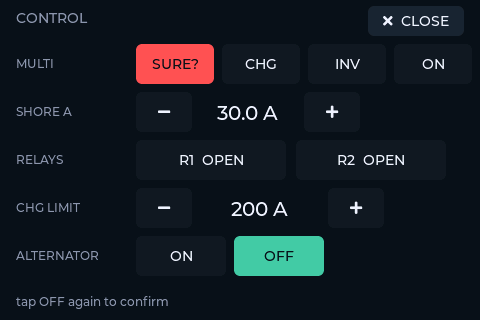
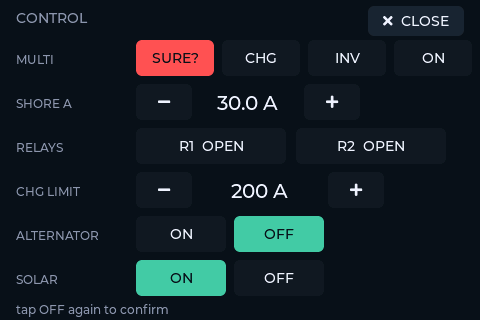
CONTROL: SmartSolar MPPT on/off row (VE.Can, unit via static mapping)
- SOLAR ON/OFF on the control page (solarcharger /Mode, reg 774); page
  compresses to six rows at a 44 px pitch
- GX_SOLAR_UNIT in config.h (0 hides the row); unit 1 on this system —
  VE.Can devices hold instances >247 and are only reachable through
  dbus_modbustcp's static unit map, so the sweep is the way to find them
- Serial 'V' sweep extended: probes solarcharger /Mode across units 1-247
  alongside the vebus scan
- Telemetry gains sm=; read-back verified live (sm=1, row highlights ON);
  ext-control override caveat documented — read-back shows whether a
  write stuck
- Control screenshots regenerated for the six-row layout

diff --git a/ui_control.cpp b/ui_control.cpp
@@ -19,6 +19,7 @@ lv_obj_t* s_shoreVal = nullptr;
 lv_obj_t* s_relayBtn[2] = {nullptr};
 lv_obj_t* s_dvccVal = nullptr;
 lv_obj_t* s_altBtn[2] = {nullptr};       // ON / OFF
+lv_obj_t* s_solarBtn[2] = {nullptr};     // ON / OFF
 lv_obj_t* s_altNa = nullptr;
 lv_obj_t* s_hint = nullptr;
 lv_timer_t* s_offTimer = nullptr;        // disarms the OFF confirm
@@ -109,6 +110,12 @@ void dvccCb(lv_event_t* e) {
   sendCmd(100, 2705, (uint16_t)(int16_t)a);
 }
 
+void solarCb(lv_event_t* e) {
+  if (GX_SOLAR_UNIT == 0 || !s_last.solarModeOk) return;
+  const int on = (int)(uintptr_t)lv_event_get_user_data(e);
+  sendCmd(GX_SOLAR_UNIT, 774, on ? 1 : 4);
+}
+
 void altCb(lv_event_t* e) {
   if (!s_last.altModeOk) return;
   const int on = (int)(uintptr_t)lv_event_get_user_data(e);
@@ -162,40 +169,45 @@ void uiCtlBuild() {
   lv_obj_t* close = mkChip(368, 6, 96, 30, LV_SYMBOL_CLOSE "  CLOSE", closeCb, 0);
   lv_obj_set_style_bg_color(close, lv_color_hex(kRing), 0);
 
-  mkRowLabel(56, "MULTI");
+  // Six rows at a 44 px pitch, 36 px chips (compressed when SOLAR joined).
+  mkRowLabel(52, "MULTI");
   for (int i = 0; i < 4; i++)
-    s_mpBtn[i] = mkChip(136 + i * 86, 44, 78, 40, kMpLabels[i], mpCb, i);
+    s_mpBtn[i] = mkChip(136 + i * 86, 40, 78, 36, kMpLabels[i], mpCb, i);
 
-  mkRowLabel(104, "SHORE A");
-  mkChip(136, 92, 56, 40, LV_SYMBOL_MINUS, shoreCb, -1);
-  s_shoreVal = mkValLabel(200, 102, 96);
-  mkChip(304, 92, 56, 40, LV_SYMBOL_PLUS, shoreCb, +1);
+  mkRowLabel(96, "SHORE A");
+  mkChip(136, 84, 56, 36, LV_SYMBOL_MINUS, shoreCb, -1);
+  s_shoreVal = mkValLabel(200, 92, 96);
+  mkChip(304, 84, 56, 36, LV_SYMBOL_PLUS, shoreCb, +1);
 
-  mkRowLabel(152, "RELAYS");
-  s_relayBtn[0] = mkChip(136, 140, 150, 40, "R1  --", relayCb, 0);
-  s_relayBtn[1] = mkChip(296, 140, 150, 40, "R2  --", relayCb, 1);
+  mkRowLabel(140, "RELAYS");
+  s_relayBtn[0] = mkChip(136, 128, 150, 36, "R1  --", relayCb, 0);
+  s_relayBtn[1] = mkChip(296, 128, 150, 36, "R2  --", relayCb, 1);
 
-  mkRowLabel(200, "CHG LIMIT");
-  mkChip(136, 188, 56, 40, LV_SYMBOL_MINUS, dvccCb, -1);
-  s_dvccVal = mkValLabel(200, 198, 120);
-  mkChip(328, 188, 56, 40, LV_SYMBOL_PLUS, dvccCb, +1);
+  mkRowLabel(184, "CHG LIMIT");
+  mkChip(136, 172, 56, 36, LV_SYMBOL_MINUS, dvccCb, -1);
+  s_dvccVal = mkValLabel(200, 180, 120);
+  mkChip(328, 172, 56, 36, LV_SYMBOL_PLUS, dvccCb, +1);
 
-  mkRowLabel(248, "ALTERNATOR");
-  s_altBtn[0] = mkChip(136, 236, 90, 40, "ON", altCb, 1);
-  s_altBtn[1] = mkChip(234, 236, 90, 40, "OFF", altCb, 0);
+  mkRowLabel(228, "ALTERNATOR");
+  s_altBtn[0] = mkChip(136, 216, 90, 36, "ON", altCb, 1);
+  s_altBtn[1] = mkChip(234, 216, 90, 36, "OFF", altCb, 0);
   s_altNa = lv_label_create(s_scr);
   lv_obj_set_style_text_font(s_altNa, &lv_font_montserrat_12, 0);
   lv_obj_set_style_text_color(s_altNa, lv_color_hex(kMuted), 0);
   lv_label_set_text(s_altNa, "needs newer\nGX firmware");
   lv_obj_set_width(s_altNa, 126);
-  lv_obj_set_pos(s_altNa, 338, 242);
+  lv_obj_set_pos(s_altNa, 338, 220);
   lv_obj_add_flag(s_altNa, LV_OBJ_FLAG_HIDDEN);
+
+  mkRowLabel(272, "SOLAR");
+  s_solarBtn[0] = mkChip(136, 260, 90, 36, "ON", solarCb, 1);
+  s_solarBtn[1] = mkChip(234, 260, 90, 36, "OFF", solarCb, 0);
 
   s_hint = lv_label_create(s_scr);
   lv_obj_set_style_text_font(s_hint, &lv_font_montserrat_12, 0);
   lv_obj_set_style_text_color(s_hint, lv_color_hex(kMuted), 0);
   lv_label_set_text(s_hint, "states show GX read-back   OFF asks twice");
-  lv_obj_set_pos(s_hint, 16, 294);
+  lv_obj_set_pos(s_hint, 16, 302);
 
   s_offTimer = lv_timer_create(offTimerCb, 3000, nullptr);
   lv_timer_pause(s_offTimer);
@@ -252,6 +264,14 @@ void uiCtlUpdate(const GxData& d) {
     }
   } else {
     lv_label_set_text(s_dvccVal, "--");
+  }
+
+  if (d.solarModeOk) {
+    styleChip(s_solarBtn[0], d.solarMode == 1, true);
+    styleChip(s_solarBtn[1], d.solarMode == 4, true);
+  } else {
+    styleChip(s_solarBtn[0], false, false);
+    styleChip(s_solarBtn[1], false, false);
   }
 
   if (d.altModeOk) {

diff --git a/gx_poller.cpp b/gx_poller.cpp
@@ -180,6 +180,16 @@ bool pollOnce(GxData& out) {
   out.dvccOk = (r == kRegOk);
   if (out.dvccOk) out.dvccLimA = s16(cv[0]);
 
+  // SmartSolar /Mode — a unit of 0 means "not configured" (compile-time
+  // constant, the branch folds away). An ext-control MPPT may accept the
+  // read but bounce writes; read-back truth shows that on the page.
+  if (GX_SOLAR_UNIT != 0) {
+    r = sockOk ? mbRead(GX_SOLAR_UNIT, 774, 1, cv) : kRegFault;
+    if (r == kRegFault) sockOk = false;
+    out.solarModeOk = (r == kRegOk);
+    if (out.solarModeOk) out.solarMode = cv[0];
+  }
+
   // Orion /Mode (4119) only exists on newer GX firmware — one clean
   // exception per connection marks it unsupported until reconnect.
   if (s_altModeSupported && sockOk) {
@@ -232,17 +242,28 @@ bool pollOnce(GxData& out) {
 }
 
 void runSweep() {
-  Serial.println("[sweep] units 200-247, vebus /Mode (reg 33)...");
+  Serial.println("[sweep] units 1-247: solar /Mode (774); 200-247 also: vebus /Mode (33)...");
   uint16_t v[1];
-  for (int u = 200; u <= 247; u++) {
-    const RegResult r = mbRead((uint8_t)u, 33, 1, v);
-    if (r == kRegOk && v[0] >= 1 && v[0] <= 4)
-      Serial.printf("[sweep] unit %d: /Mode=%u  <-- vebus candidate\n", u, v[0]);
+  for (int u = 1; u <= 247; u++) {
+    RegResult r = mbRead((uint8_t)u, 774, 1, v);
+    if (r == kRegOk && (v[0] == 1 || v[0] == 4))
+      Serial.printf("[sweep] unit %d: solar /Mode=%u  <-- solarcharger candidate\n", u, v[0]);
     else if (r == kRegFault) {
       Serial.println("[sweep] aborted: socket fault");
       mbStop();
       s_nextAttemptMs = millis();
       return;
+    }
+    if (u >= 200) {
+      r = mbRead((uint8_t)u, 33, 1, v);
+      if (r == kRegOk && v[0] >= 1 && v[0] <= 4)
+        Serial.printf("[sweep] unit %d: /Mode=%u  <-- vebus candidate\n", u, v[0]);
+      else if (r == kRegFault) {
+        Serial.println("[sweep] aborted: socket fault");
+        mbStop();
+        s_nextAttemptMs = millis();
+        return;
+      }
     }
   }
   Serial.println("[sweep] done");

diff --git a/config.h b/config.h
@@ -23,6 +23,15 @@
 #define GX_ALT_UNIT 239
 #endif
 
+// SmartSolar MPPT (com.victronenergy.solarcharger) — discover with the
+// serial 'V' sweep; VE.Can devices reach Modbus through the static
+// unit-id mapping, so the unit is NOT the VRM instance number. 0 = no
+// solar on/off control (row shows muted). 1 on this system (found by
+// sweep; the VE.Can MPPT answers there).
+#ifndef GX_SOLAR_UNIT
+#define GX_SOLAR_UNIT 1
+#endif
+
 // MultiPlus (com.victronenergy.vebus) — discover with the serial 'V' sweep.
 #ifndef GX_VEBUS_UNIT
 #define GX_VEBUS_UNIT 229

diff --git a/gx_poller.h b/gx_poller.h
@@ -61,6 +61,8 @@ struct GxData {
   bool relayOk = false;
   int dvccLimA = 0;        // DVCC max charge current, -1 = no limit
   bool dvccOk = false;
+  int solarMode = 0;       // SmartSolar /Mode: 1 on, 4 off
+  bool solarModeOk = false;  // stays false when GX_SOLAR_UNIT is 0
   int altMode = 0;         // Orion XS /Mode: 1 on, 4 off (newer firmware)
   bool altModeOk = false;  // this round's read answered
   bool altModeSupported = true;  // false only after a clean exception —

diff --git a/CLAUDE.md b/CLAUDE.md
@@ -93,7 +93,7 @@ partition table keeps the nvs partition); `esptool erase-flash` clears it.
 - Debug serial commands (handled in loop()): `S` = screen dump as hex
   RGB565 (decode: `tools/capture_screenshot.py out.png`, pre-cmd args like
   `K 1.5` open a screen first), `U` = setup screen, `C` = control page,
-  `B` = chirps, `V` = vebus unit sweep, `K` = setup + keyboard up, `D` =
+  `B` = chirps, `V` = unit sweep (solar + vebus), `K` = setup + keyboard up, `D` =
   arm the MULTI OFF confirm (real first-tap path, never confirms), `M` = heap/PSRAM
   watermarks (LV_MEM_CUSTOM=1: heap-free IS the LVGL watermark).
   Screenshots in docs/img were made this way — regenerate on UI changes and
@@ -239,16 +239,18 @@ CONTROL page (ui_control.cpp, bolt chip on the main screen; serial 'C'):
 MultiPlus mode segmented buttons (OFF needs a second confirming tap — it
 kills AC loads), shore-limit stepper (5 A steps, 5-50), GX relay toggles,
 DVCC charge-limit stepper (10 A steps, 10-100 then NO LIMIT), alternator
-ON/OFF (hidden as "needs newer GX firmware" when reg 4119 answers
-exception). WRITE LAW: writes queue via gxWrite() to the poller task (FC6,
+ON/OFF (noted "needs newer GX firmware" when reg 4119 answers exception),
+solar ON/OFF (SmartSolar /Mode reg 774 on GX_SOLAR_UNIT; ext-control may
+override — read-back shows truth). Six rows, 44 px pitch, 36 px chips. WRITE LAW: writes queue via gxWrite() to the poller task (FC6,
 same framing/tri-state as reads; never touch the socket from the UI), the
 task logs "[ctl] write ..." and immediately re-polls (queued commands
 EXPIRE after 10 s — a tap during an outage must not fire on reconnect),
 and every widget
 highlights GX READ-BACK state — a rejected or overridden write (DMC/BMS can
 own the shore limit; ext-control solar ignores /Mode) shows itself within a
-second. Telemetry gained mp/sh/r1/r2/chg/am fields. Serial 'V' sweeps units
-200-247 for vebus /Mode to find GX_VEBUS_UNIT on a new install.
+second. Telemetry: mp/sh/r1/r2/chg/sm/am fields. Serial 'V' sweeps units
+1-247 for solarcharger /Mode (774) and 200-247 for vebus /Mode (33) to
+find GX_SOLAR_UNIT / GX_VEBUS_UNIT on a new install.
 
 Setup screen (ui_setup.cpp): async Wi-Fi scan (strongest-first, deduped, top
 12) into a tappable list; SSID + password + GX-target textareas (password

diff --git a/SETUP.md b/SETUP.md
@@ -30,9 +30,10 @@ list (e.g. "Temperature sensor [22]" → unit 22). You need:
 - **Alternator** (Orion XS): one unit id (`GX_ALT_UNIT`).
 - **Temperature sensors**: one per sensor (`GX_TEMP_UNITS`).
 - **Tank senders**: one per tank (`GX_TANK_UNITS`).
-- **MultiPlus** (`GX_VEBUS_UNIT`): once flashed, just type `V` into the
-  serial port — the firmware sweeps units 200–247 and prints the vebus
-  candidates.
+- **MultiPlus** (`GX_VEBUS_UNIT`) and **solar charger** (`GX_SOLAR_UNIT`):
+  once flashed, just type `V` into the serial port — the firmware sweeps
+  the unit range and prints vebus and solarcharger candidates (VE.Can
+  devices sit behind a static unit mapping, so guessing doesn't work).
 
 If in doubt, sweep: read a service-specific register (3304 for temps, 3004
 for tanks, 4100 for the alternator) against units 1–247 and see which
@@ -68,6 +69,7 @@ part worth getting right:
 | `GX_MDNS_HOST` / `GX_FALLBACK_IP` | Where the GX lives | Defaults usually fine |
 | `GX_ALT_UNIT` | Orion XS unit id | For the alternator reading |
 | `GX_VEBUS_UNIT` | MultiPlus unit id | For the CONTROL page (serial `V` finds it) |
+| `GX_SOLAR_UNIT` | Solar charger unit id | Solar on/off row (`V` finds it; 0 = hide) |
 | `GX_TEMP_UNITS` / `GX_TEMP_LABELS` | Temp sensor units + display names | Yes, match lengths |
 | `GX_TANK_UNITS` / `GX_TANK_LABELS` | Tank units + display names | Yes, match lengths |
 | `TEMPS_IN_F` | 1 = °F, 0 = °C default | Toggleable on-device |
@@ -138,5 +140,5 @@ User Guide) and look for:
 Type into the serial terminal: `S` screen dump as hex
 (`tools/capture_screenshot.py` turns it into a PNG — the screenshots in
 these guides were made that way), `U` setup screen, `C` control page,
-`B` chirps, `V` vebus unit sweep, `K` setup + keyboard, `D` arm the OFF
+`B` chirps, `V` unit sweep (solar + vebus), `K` setup + keyboard, `D` arm the OFF
 confirm, `M` memory watermarks. Full list in the User Guide.

diff --git a/USERGUIDE.md b/USERGUIDE.md
@@ -113,6 +113,9 @@ Victron system over the same local Modbus connection:
 - **ALTERNATOR** — Orion XS on/off (works on Venus 3.75, verified live).
   On older GX firmware lacking the register, the row says so and stays
   inert.
+- **SOLAR** — SmartSolar MPPT charger on/off. Note: on a DVCC/BMS-managed
+  system the charger is under external control, so the GX may override the
+  setting — the read-back highlight shows whether it stuck.
 
 Every control shows the **GX's own reported state**, refreshed every
 second — not what was last tapped. If a write is rejected or overridden,
@@ -132,6 +135,6 @@ Debug commands (type into the serial terminal): `S` dumps a screenshot of
 the current screen as hex (decode with `tools/capture_screenshot.py`),
 `U` opens the setup screen, `C` opens the control page, `B` plays the
 charge-complete chirps, `V` sweeps Modbus unit ids to find your MultiPlus
-(`GX_VEBUS_UNIT`) on a new installation, `K` opens setup with the keyboard
+and solar charger units (`GX_VEBUS_UNIT`/`GX_SOLAR_UNIT`), `K` opens setup with the keyboard
 up and `D` arms the MULTI OFF confirm (both exist for capturing the
 screenshots in these guides), `M` prints memory watermarks.
